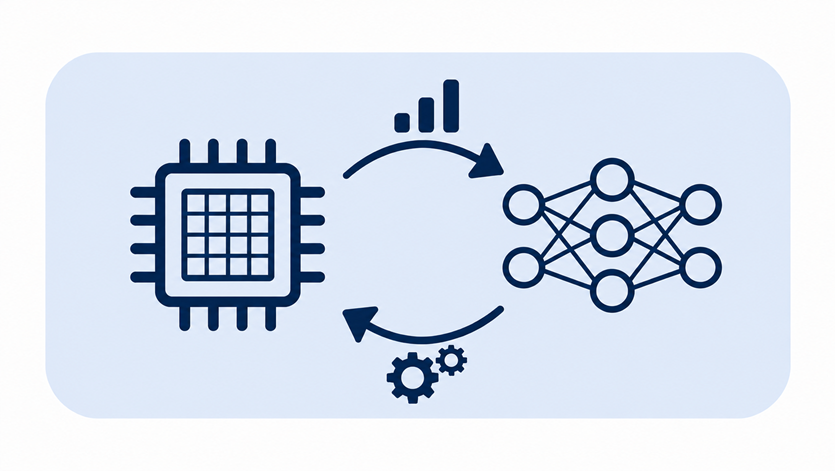
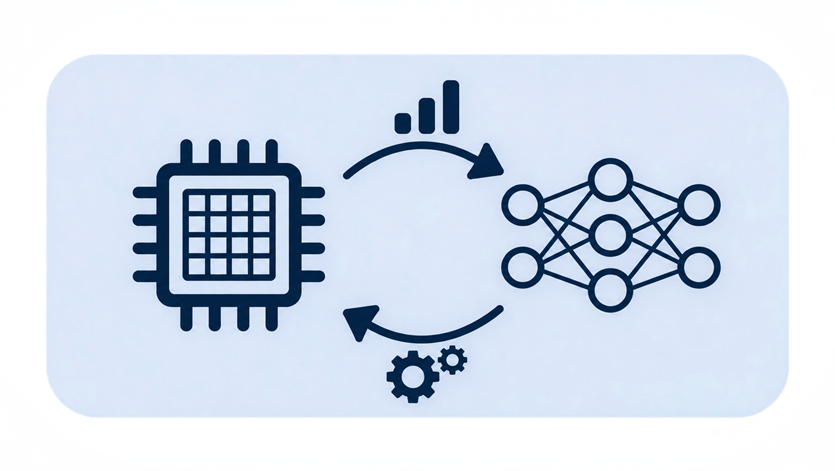
Changed the style.

diff --git a/assets/css/style.scss b/assets/css/style.scss
@@ -834,8 +834,8 @@ img { max-width: 100%; display: block; }
 
 .research-card {
   display: grid;
-  grid-template-columns: 40% 60%;
-  min-height: 260px;
+  grid-template-columns: 50% 50%;
+  min-height: 200px;
   overflow: hidden;
   background: #181c26;
   border: 1px solid #2b3241;
@@ -843,7 +843,7 @@ img { max-width: 100%; display: block; }
 }
 
 .research-card__content {
-  padding: 32px;
+  padding: 16px;
   display: flex;
   flex-direction: column;
   justify-content: center;
